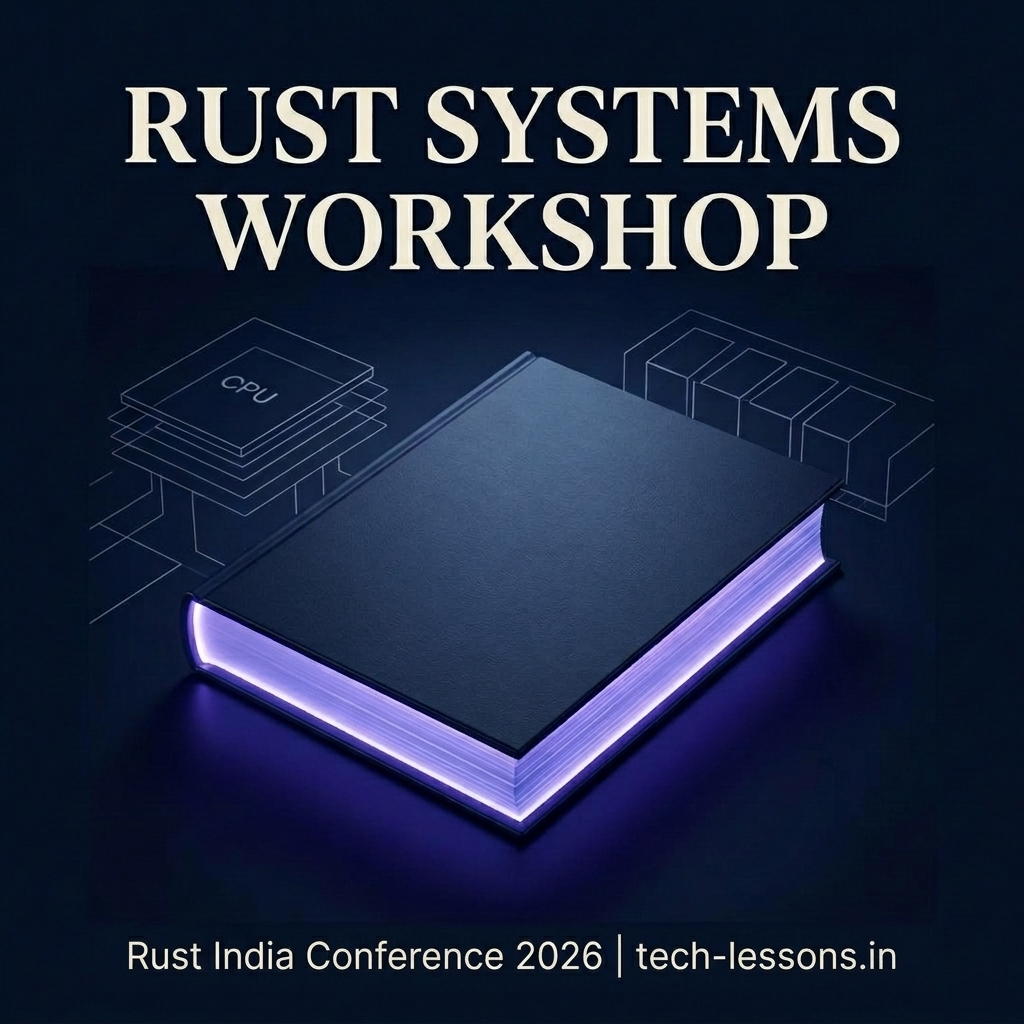
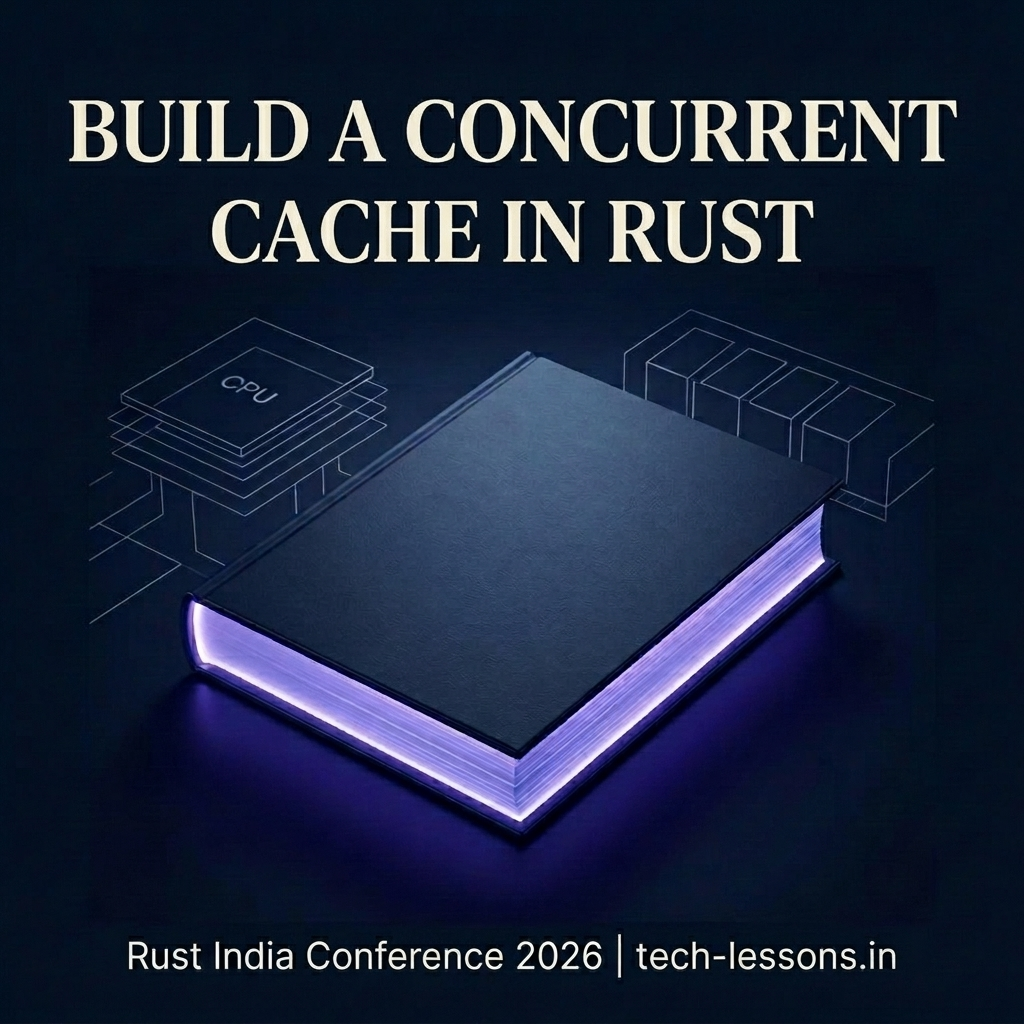
Sarthak | Updates the name of the workshop

Changed region(s): [[0.0625, 0.0625, 0.9375, 0.2812]]

diff --git a/src/components/sections/section1/Index.tsx b/src/components/sections/section1/Index.tsx
@@ -10,7 +10,7 @@ export const WorkshopCover = forwardRef<HTMLDivElement, {}>((props, ref) => {
         <div className="cover-decoration" />
         <h1 className="cover-title">RUST WORKSHOP</h1>
         <div className="cover-subtitle" style={{ marginTop: '1rem', color: 'var(--accent-color)', letterSpacing: '2px', fontWeight: 'bold' }}>
-          BUILD A CONCURRENT <br /> CACHE IN RUST
+          Build a concurrent <br /> cache in Rust
         </div>
         <div className="cover-decoration" />
         <div className="cover-subtitle" style={{ marginTop: '2rem', fontStyle: 'italic' }}>
@@ -20,7 +20,7 @@ export const WorkshopCover = forwardRef<HTMLDivElement, {}>((props, ref) => {
           <div style={{ fontSize: '0.7rem', textTransform: 'uppercase', letterSpacing: '3px', opacity: 0.5, marginBottom: '0.3rem' }}>
             by
           </div>
-          <div style={{ fontSize: '1.1rem', letterSpacing: '2px', fontWeight: '500', textTransform: 'uppercase', opacity: 0.9 }}>
+          <div style={{ fontSize: '1.1rem', letterSpacing: '2px', fontWeight: '500', opacity: 0.9 }}>
             Sarthak Makhija
           </div>
         </div>
